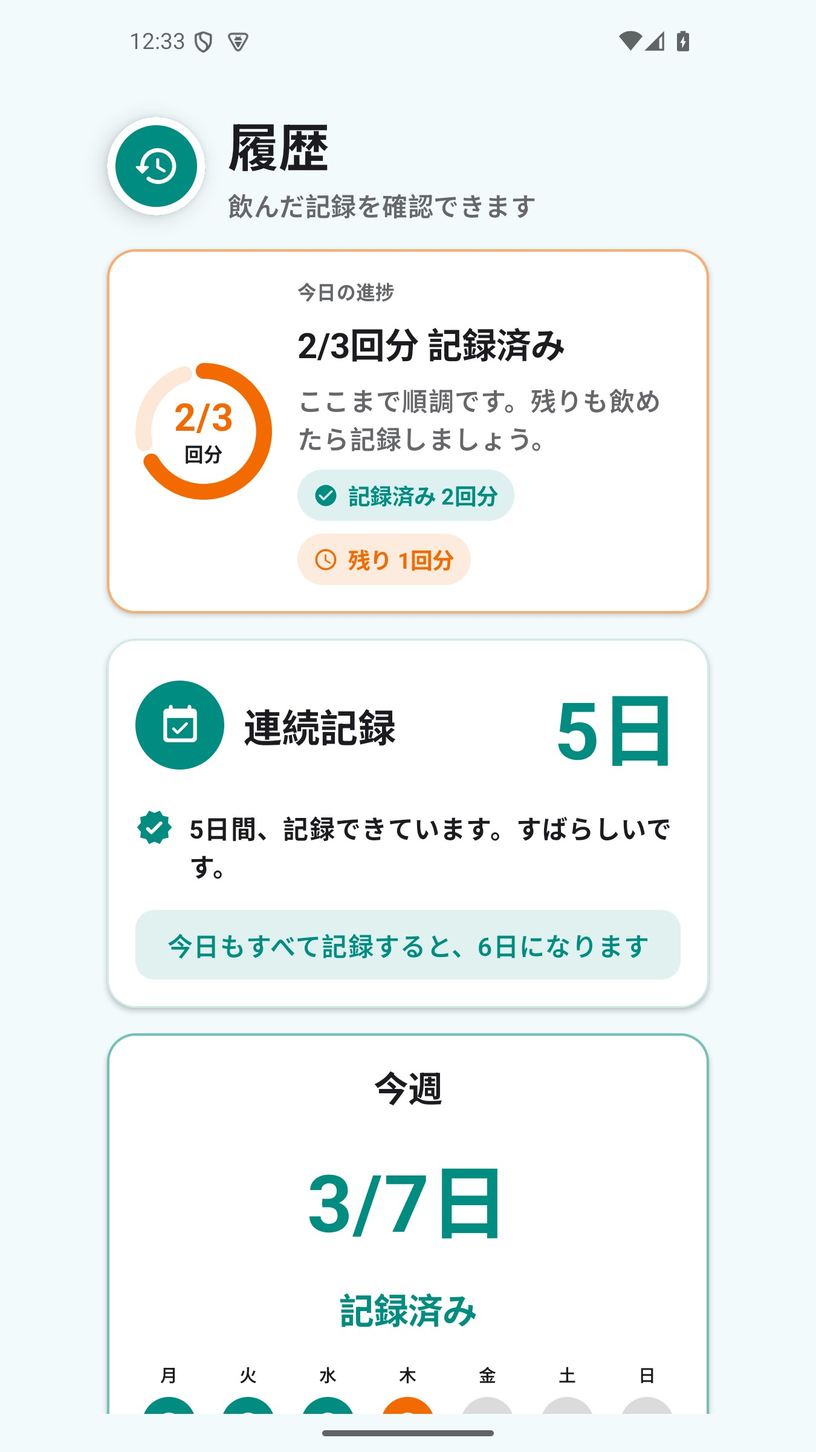
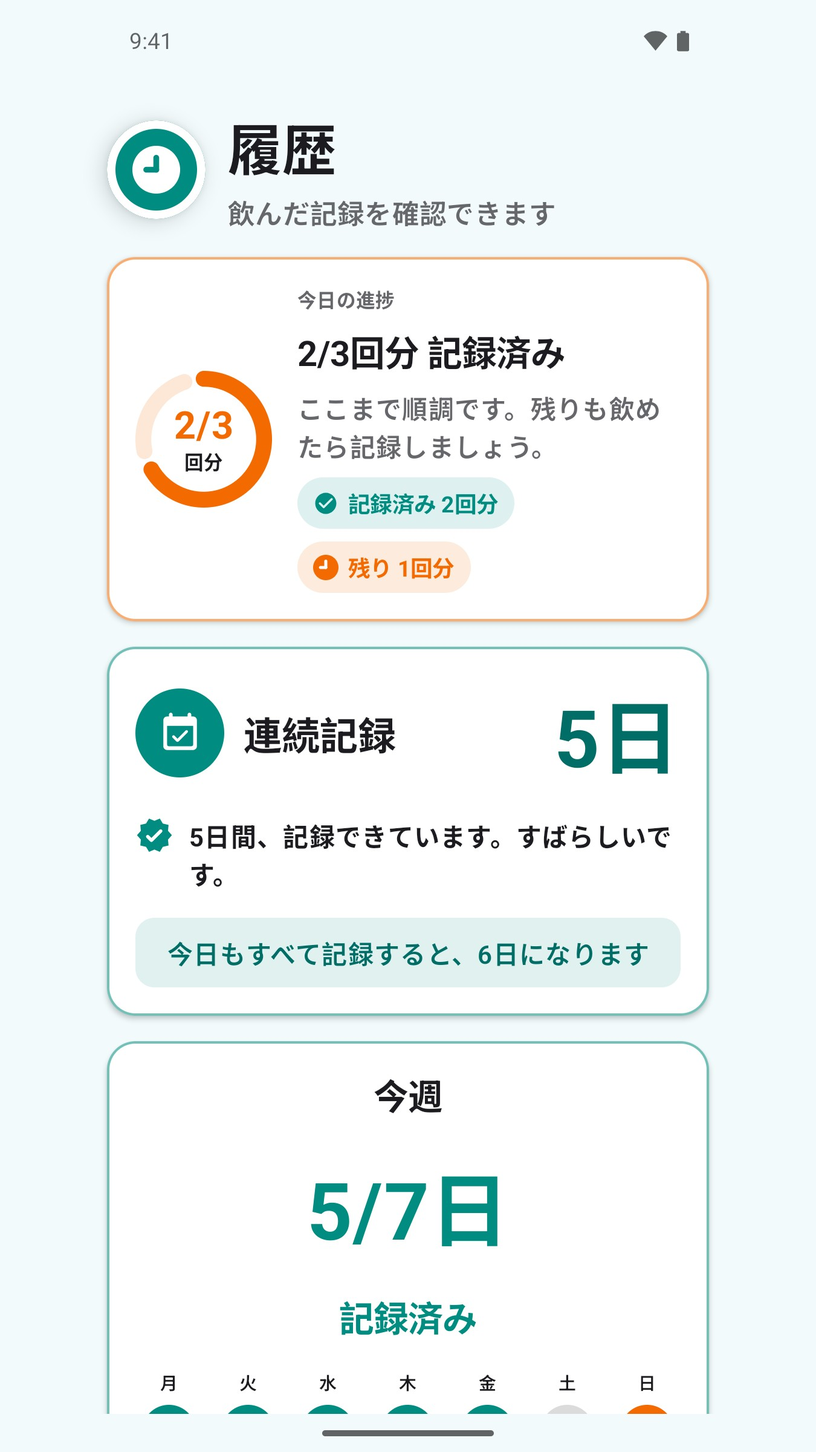
C124 rebaseline patient history UI to published iOS

diff --git a/android/app/src/main/java/com/afterlifearchive/medmanager/ui/PatientHistoryScreen.kt b/android/app/src/main/java/com/afterlifearchive/medmanager/ui/PatientHistoryScreen.kt
@@ -190,7 +190,7 @@ private fun PatientHistoryStreakCard(streak: PatientHistoryStreak) {
     Card(
         modifier = Modifier.fillMaxWidth().testTag("patient-history-streak-card"),
         shape = RoundedCornerShape(18.dp),
-        border = BorderStroke(1.dp, PatientTeal.copy(alpha = 0.18f)),
+        border = BorderStroke(1.5.dp, PatientTeal.copy(alpha = 0.55f)),
         colors = CardDefaults.cardColors(containerColor = MaterialTheme.colorScheme.surface),
         elevation = CardDefaults.cardElevation(defaultElevation = 2.dp),
     ) {
@@ -203,7 +203,7 @@ private fun PatientHistoryStreakCard(streak: PatientHistoryStreak) {
                 Text(
                     value,
                     fontSize = if (streak.currentStreakDays == 0) 28.sp else 50.sp,
-                    color = PatientTeal,
+                    color = MedicationTheme.colors.primaryTealText,
                     fontWeight = FontWeight.Bold,
                     maxLines = 1,
                     modifier = Modifier.semantics { contentDescription = valueAccessibility },
@@ -217,7 +217,7 @@ private fun PatientHistoryStreakCard(streak: PatientHistoryStreak) {
                 next,
                 style = MaterialTheme.typography.bodyLarge,
                 fontWeight = FontWeight.SemiBold,
-                color = PatientTeal,
+                color = MedicationTheme.colors.primaryTealText,
                 textAlign = TextAlign.Center,
                 modifier = Modifier.fillMaxWidth().background(PatientTeal.copy(alpha = 0.12f), RoundedCornerShape(12.dp)).padding(horizontal = 14.dp, vertical = 10.dp),
             )
@@ -291,11 +291,12 @@ private enum class PatientSimpleHistoryStatus { TAKEN, PENDING, MISSED, NONE }
 @Composable
 private fun PatientHistoryHeader() {
     Row(Modifier.fillMaxWidth(), verticalAlignment = Alignment.CenterVertically, horizontalArrangement = Arrangement.spacedBy(14.dp)) {
-        PatientHeaderIcon(Icons.Rounded.AccessTime)
-        Column(verticalArrangement = Arrangement.spacedBy(3.dp)) {
-            Text(stringResource(R.string.patient_history_title), modifier = Modifier.semantics { heading() }, style = MaterialTheme.typography.headlineLarge, fontWeight = FontWeight.Bold)
-            Text(stringResource(R.string.patient_history_subtitle), style = MaterialTheme.typography.titleMedium, color = MaterialTheme.colorScheme.onSurfaceVariant, fontWeight = FontWeight.SemiBold)
-        }
+        PatientHeaderFilledClockIcon()
+        PatientHeaderText(
+            title = stringResource(R.string.patient_history_title),
+            subtitle = stringResource(R.string.patient_history_subtitle),
+            titleModifier = Modifier.semantics { heading() },
+        )
     }
 }
 
@@ -352,7 +353,11 @@ private fun PatientTodayProgressCard(day: HistoryDay?) {
                 if (total > 0) {
                     FlowRow(horizontalArrangement = Arrangement.spacedBy(8.dp), verticalArrangement = Arrangement.spacedBy(8.dp)) {
                         HistoryStatusPill(stringResource(R.string.patient_history_today_taken, taken), PatientTeal, Icons.Rounded.CheckCircle)
-                        if (pending > 0) HistoryStatusPill(stringResource(R.string.patient_history_today_remaining, pending), Color(0xFFF36A00), Icons.Rounded.AccessTime)
+                        if (pending > 0) HistoryStatusPill(
+                            stringResource(R.string.patient_history_today_remaining, pending),
+                            Color(0xFFF36A00),
+                            filledClock = true,
+                        )
                         if (missed > 0) HistoryStatusPill(stringResource(R.string.patient_history_today_missed, missed), MaterialTheme.colorScheme.error, Icons.Rounded.Warning)
                     }
                 }
@@ -603,13 +608,26 @@ private fun patientRecentDoseStatusColor(dose: HistoryScheduledDose): Color = wh
 }
 
 @Composable
-private fun HistoryStatusPill(text: String, color: Color, icon: ImageVector? = null) {
+private fun HistoryStatusPill(
+    text: String,
+    color: Color,
+    icon: ImageVector? = null,
+    filledClock: Boolean = false,
+) {
     Row(
         modifier = Modifier.background(color.copy(alpha = 0.13f), RoundedCornerShape(50)).padding(horizontal = 10.dp, vertical = 6.dp),
         horizontalArrangement = Arrangement.spacedBy(6.dp),
         verticalAlignment = Alignment.CenterVertically,
     ) {
-        icon?.let { Icon(it, contentDescription = null, tint = color, modifier = Modifier.size(16.dp)) }
+        if (filledClock) {
+            FilledClockGlyph(
+                fillColor = color,
+                handColor = Color.White,
+                modifier = Modifier.size(16.dp),
+            )
+        } else {
+            icon?.let { Icon(it, contentDescription = null, tint = color, modifier = Modifier.size(16.dp)) }
+        }
         Text(text, color = color, fontWeight = FontWeight.Bold, style = MaterialTheme.typography.titleSmall)
     }
 }

diff --git a/android/app/src/main/java/com/afterlifearchive/medmanager/ui/PatientUiComponents.kt b/android/app/src/main/java/com/afterlifearchive/medmanager/ui/PatientUiComponents.kt
@@ -10,6 +10,7 @@ import androidx.compose.foundation.layout.padding
 import androidx.compose.foundation.layout.size
 import androidx.compose.foundation.shape.CircleShape
 import androidx.compose.foundation.shape.RoundedCornerShape
+import androidx.compose.foundation.Canvas
 import androidx.compose.material3.Card
 import androidx.compose.material3.CardDefaults
 import androidx.compose.material3.CircularProgressIndicator
@@ -21,6 +22,7 @@ import androidx.compose.runtime.Composable
 import androidx.compose.ui.Alignment
 import androidx.compose.ui.Modifier
 import androidx.compose.ui.graphics.Color
+import androidx.compose.ui.graphics.StrokeCap
 import androidx.compose.ui.graphics.vector.ImageVector
 import androidx.compose.ui.draw.shadow
 import androidx.compose.ui.res.stringResource
@@ -60,6 +62,77 @@ internal fun PatientHeaderPillsIcon() {
         contentAlignment = Alignment.Center,
     ) {
         MedicationPillsGlyph(Color.White, Modifier.size(34.dp))
+    }
+}
+
+@Composable
+internal fun PatientHeaderFilledClockIcon() {
+    Box(
+        modifier = Modifier
+            .size(62.dp)
+            .shadow(8.dp, CircleShape)
+            .background(PatientTeal, CircleShape)
+            .border(5.dp, MaterialTheme.colorScheme.surface, CircleShape),
+        contentAlignment = Alignment.Center,
+    ) {
+        FilledClockGlyph(
+            fillColor = Color.White,
+            handColor = PatientTeal,
+            modifier = Modifier.size(30.dp),
+        )
+    }
+}
+
+@Composable
+internal fun FilledClockGlyph(
+    fillColor: Color,
+    handColor: Color,
+    modifier: Modifier = Modifier,
+) {
+    Canvas(modifier) {
+        val radius = size.minDimension / 2f
+        val stroke = size.minDimension * 0.12f
+        drawCircle(color = fillColor, radius = radius)
+        drawLine(
+            color = handColor,
+            start = center,
+            end = center.copy(y = center.y - radius * 0.50f),
+            strokeWidth = stroke,
+            cap = StrokeCap.Round,
+        )
+        drawLine(
+            color = handColor,
+            start = center,
+            end = center.copy(x = center.x - radius * 0.42f),
+            strokeWidth = stroke,
+            cap = StrokeCap.Round,
+        )
+    }
+}
+
+@Composable
+internal fun PatientHeaderText(
+    title: String,
+    subtitle: String,
+    titleModifier: Modifier = Modifier,
+) {
+    Column(verticalArrangement = Arrangement.spacedBy(4.dp)) {
+        Text(
+            text = title,
+            fontSize = 34.sp,
+            lineHeight = 41.sp,
+            fontWeight = FontWeight.Bold,
+            maxLines = 1,
+            modifier = titleModifier,
+        )
+        Text(
+            text = subtitle,
+            fontSize = 17.sp,
+            lineHeight = 22.sp,
+            fontWeight = FontWeight.SemiBold,
+            color = MaterialTheme.colorScheme.onSurfaceVariant,
+            maxLines = 2,
+        )
     }
 }
 

diff --git a/android/app/src/androidTest/java/com/afterlifearchive/medmanager/ui/PatientHistoryContentTest.kt b/android/app/src/androidTest/java/com/afterlifearchive/medmanager/ui/PatientHistoryContentTest.kt
@@ -178,6 +178,30 @@ class PatientHistoryContentTest {
     }
 
     @Test
+    fun publishedIosV105PatientHistoryFixtureRendersInProductionCompose() {
+        val now = LocalDate.parse("2026-07-19")
+        val activity = showHistory(
+            days = listOf(
+                HistoryDay("2026-07-13", HistoryStatus.TAKEN, HistoryStatus.NONE, HistoryStatus.NONE, HistoryStatus.NONE, 0),
+                HistoryDay("2026-07-14", HistoryStatus.TAKEN, HistoryStatus.NONE, HistoryStatus.NONE, HistoryStatus.NONE, 0),
+                HistoryDay("2026-07-15", HistoryStatus.TAKEN, HistoryStatus.NONE, HistoryStatus.NONE, HistoryStatus.NONE, 0),
+                HistoryDay("2026-07-16", HistoryStatus.TAKEN, HistoryStatus.NONE, HistoryStatus.NONE, HistoryStatus.NONE, 0),
+                HistoryDay("2026-07-17", HistoryStatus.TAKEN, HistoryStatus.NONE, HistoryStatus.NONE, HistoryStatus.NONE, 0),
+                HistoryDay(now.toString(), HistoryStatus.TAKEN, HistoryStatus.TAKEN, HistoryStatus.PENDING, HistoryStatus.NONE, 0),
+            ),
+            streak = PatientHistoryStreak(5, false, HistoryStreakTodayStatus.IN_PROGRESS),
+            now = now,
+        )
+
+        composeRule.onNodeWithText("2/3回分 記録済み").assertIsDisplayed()
+        composeRule.onNodeWithText("記録済み 2回分").assertIsDisplayed()
+        composeRule.onNodeWithText("残り 1回分").assertIsDisplayed()
+        composeRule.onNodeWithText("5日").assertIsDisplayed()
+        composeRule.onNodeWithText("5/7日").assertIsDisplayed()
+        captureDevice(activity, "android-ui-104-published-v105-light.png")
+    }
+
+    @Test
     fun currentIosAchievementPreviewRemainsReadableInDarkMaximumText() {
         val activity = showHistory(
             days = listOf(

diff --git a/android/app/src/main/java/com/afterlifearchive/medmanager/ui/PatientSettingsScreen.kt b/android/app/src/main/java/com/afterlifearchive/medmanager/ui/PatientSettingsScreen.kt
@@ -168,10 +168,10 @@ internal fun SettingsContent(
 private fun PatientSettingsHeader() {
     Row(Modifier.fillMaxWidth(), verticalAlignment = Alignment.CenterVertically, horizontalArrangement = Arrangement.spacedBy(14.dp)) {
         PatientHeaderIcon(Icons.Rounded.Settings)
-        Column(verticalArrangement = Arrangement.spacedBy(3.dp)) {
-            Text(stringResource(R.string.patient_settings_title), style = MaterialTheme.typography.headlineLarge, fontWeight = FontWeight.Bold)
-            Text(stringResource(R.string.patient_settings_subtitle), style = MaterialTheme.typography.titleMedium, color = MaterialTheme.colorScheme.onSurfaceVariant, fontWeight = FontWeight.SemiBold)
-        }
+        PatientHeaderText(
+            title = stringResource(R.string.patient_settings_title),
+            subtitle = stringResource(R.string.patient_settings_subtitle),
+        )
     }
 }
 

diff --git a/android/app/src/main/java/com/afterlifearchive/medmanager/ui/PatientTodayScreen.kt b/android/app/src/main/java/com/afterlifearchive/medmanager/ui/PatientTodayScreen.kt
@@ -558,10 +558,10 @@ private fun PatientInventoryWarningCard(medicationNames: List<String>) {
 private fun PatientTodayHeader(date: String) {
     Row(Modifier.fillMaxWidth(), verticalAlignment = Alignment.CenterVertically, horizontalArrangement = Arrangement.spacedBy(14.dp)) {
         PatientHeaderIcon(Icons.Rounded.CalendarMonth)
-        Column {
-            Text(stringResource(R.string.patient_today_title), style = MaterialTheme.typography.headlineLarge, fontWeight = FontWeight.Bold)
-            Text(date, color = MaterialTheme.colorScheme.onSurfaceVariant, style = MaterialTheme.typography.titleMedium, fontWeight = FontWeight.SemiBold)
-        }
+        PatientHeaderText(
+            title = stringResource(R.string.patient_today_title),
+            subtitle = date,
+        )
     }
 }
 

diff --git a/android/scripts/verify-main-merge-surface.py b/android/scripts/verify-main-merge-surface.py
@@ -13,8 +13,8 @@ from typing import Sequence
 
 
 # The long-lived Android branch is intentionally source/evidence complete. C123
-# reaches 1,254 reviewed paths; 1,400 retains bounded headroom for the remaining
-# six published-build screenshot pairs without weakening scope/blob policies.
+# reaches 1,254 reviewed paths; 1,400 retains bounded headroom for that six-pair
+# queue (five remain after C124) without weakening scope/blob policies.
 MAX_CHANGED_FILES = 1_400
 MAX_SINGLE_BLOB_BYTES = 2 * 1024 * 1024
 MAX_CHANGED_TREE_BYTES = 400 * 1024 * 1024

diff --git a/docs/android/android-port-master-plan.md b/docs/android/android-port-master-plan.md
@@ -161,7 +161,7 @@ This is a verification/repair phase, not a declaration that earlier code is auto
 5. Data safety and health-app declarations
 6. Signed internal/closed test, feedback repair and rollout plan
 
-### Current checkpoint — C123 (2026-08-17)
+### Current checkpoint — C124 (2026-08-17)
 
 - R0–C4 and the automated portion of X1 are implemented against published `main@432b34c`.
 - C62 reopened the initial C61 conclusion with a direct source audit and closed the expandable History, Today summary, medication form and inventory gaps. C63 then corrected the tutorial implementation after direct comparison with `PatientTutorialSampleView`, `CaregiverTutorialSampleView` and `GuidedTutorialOverlay`: Android now uses dedicated published sample screens for all 14 steps, exact fixed copy/data and the compact role-colored guide card. The current suite passes 202/202 JVM tests, Lint and 272/272 UI tests on API 26/33/35.
@@ -222,9 +222,10 @@ This is a verification/repair phase, not a declaration that earlier code is auto
 - C121 closes the API workflow runtime warning exposed by inspecting every exact C120 hosted job rather than treating green conclusions as sufficient. API CI's three jobs and API E2E all succeeded but each carried the same Node 20 deprecation warning for `checkout@v4`/`setup-node@v4`; Android CI had zero annotations. Official release/tag and `action.yml` inspection selects checkout v7.0.1, setup-node v7.0.0 and upload-artifact v7.0.1, pins their full commit SHAs and confirms all use `node24`. All three API workflows now grant only `contents: read`, never persist checkout credentials and expose exactly thirteen reviewed action occurrences. The API runtime contract grows from nineteen to twenty-five rejected action/permission/runtime drifts; Production retains twenty-nine rejected source-policy fixtures. RG-002/RG-010 require exact post-fix API CI/E2E runs with zero action-runtime annotations.
 - C122 corrects the UI-evidence baseline itself. Earlier C37-C56 captures predated published Build 51 even though later source audits used `main@432b34c`; an exact unmodified `PatientTodayV105DebugPreview` capture exposed three visible Patient Today drifts. Android now matches the published progress connector and status glyphs, hero hierarchy/spacing, `予定 HH:mm`, actual-time `H:mm`, exact medicines and effective disabled-action opacity. The exact iOS/Android raw and normalized pair, side-by-side and overlay are retained under `evidence/c122-20260817`; Play screenshot 02 is regenerated from that Android evidence. Native system chrome and SF Symbols/Material icon outline differences are accepted platform conventions. The remaining seven store surfaces are not promoted by this slice and must receive the same published-build recapture audit.
 - C123 applies that procedure to UI-001 Mode Select. A clean published iOS launch with session bootstrap and an explicit privacy-safe Analytics refusal is compared with production Android Compose on API 35. The shared 52/24/14/18/112/38-unit layout, role illustrations, copy, colors and responsive scroll behavior already match. The comparison exposes two real icon drifts: Android's bottle header replaces the published pills symbol and role badge symbols used role tint while SwiftUI leaves them primary/neutral. Android now uses the shared pills glyph and neutral badge icons; exact raw/normalized/side-by-side/overlay evidence is retained under `evidence/c123-20260817`, and Play screenshot 01 derives from it. Different system chrome, SF/Material symbol outlines and natural wrapping caused by the 390-point iPhone versus 411-dp Android viewport are accepted platform/adaptive behavior. The first hosted run also proves the former 1,250-file merge ceiling obsolete at 1,254 reviewed paths; it is raised only to 1,400 with an explicit overflow rejection while all exact scope/blob/byte/iOS-zero policies remain. Six store surfaces remain.
+- C124 rebaselines UI-104 Patient History from the unchanged Build 51 `PatientHistoryAchievementPreview` and production `HistoryContent`. It closes the outline-versus-filled header/pill clocks, weak streak border, light-versus-dark streak teal, stale `3/7日` fixture and shared 32/16-versus-34/17 Patient header drift. The production source remains authoritative where the simulator preview hand-writes only five weekdays and omits `回分`: Android keeps the real Monday-first seven-day range and `記録済み %d回分`. Exact raw/normalized/side-by-side/overlay evidence is retained under `evidence/c124-20260817`; Play screenshot 03 is regenerated, while C122 Today and Play screenshot 02 are recaptured after the shared header correction. The affected 57/57 and complete API-35 283/283 suites pass alongside 216/216 Debug JVM, 213/213 Release JVM, lint/build/release/Play gates. Five store surfaces remain.
 - The repeatable privacy-first Firebase procedure is `firebase-analytics.md`; DebugView/Realtime evidence is `evidence/h07-20260817/README.md`, and delayed processed Events evidence is `evidence/c80-20260817/README.md`. Explore remains pending.
 - The physical release procedure is `physical-device-matrix.md`; its row-level evidence still requires old-supported, current-reference and non-Google OEM targets plus the exact signed Play Internal artifact.
-- C65-C123 cover one non-Google OEM/API 35 Debug target including a fresh durable 280/280 rerun, a current 840-test API 26/33/35 emulator regression, fail-fast physical runner readiness, verified Supabase CA/hostname TLS boundaries, explicit Play Organization-account ownership, Play policy/review-access requirements and a reproducible source-bound Japanese listing carried through a generated signed-release ledger into a retained/reverified handoff plus exact Play Bundle, published-Internal, generated app-signing metadata, downloaded base-APK byte/signature and C118-to-installed-package identity receipt contracts, immutable least-privilege Node 24 hosted Android and API workflow contracts, privileged-client-key rejection, synthetic end-to-end upload-keystore/signed-AAB verification, machine-readable exact-artifact evidence, checksum handoff and AAB-derived universal/device-split install-surface verification, including a cleaned-up physical A302SH split install, strict production/Play-installed App Links, committed main-merge-surface and read-only production control-plane gates, strictly locked Release SDK policy, fail-closed merged Release-manifest policy and validated AAB content path, local reminder lifecycle, safe browser/link-code I/O, IME/offline/role isolation, mutation hardening, local server-idempotency, isolated legacy-upgrade/read-only deployment-audit contracts, a fail-closed manual production-release path, a zero-High/Critical locked-dependency gate, aligned Node 22 API runtime and a machine-verified residual ledger, live privacy-first Analytics through processed Events, both privacy-safe Android FCM envelopes, non-retaining token acquisition/cleanup, the authenticated production API boundary and automated navigation/tutorial accessibility semantics, plus fresh published-build Mode Select and Patient Today visual rebaselines. V1 remains open for the ten exact RG gates in `release-gates.json`; none is waived by the ledger, synthetic API/APK fixtures, CI contract, unexecuted workflow or this one-device Debug pass.
+- C65-C124 cover one non-Google OEM/API 35 Debug target including a fresh durable 280/280 rerun, a current 840-test API 26/33/35 emulator regression, fail-fast physical runner readiness, verified Supabase CA/hostname TLS boundaries, explicit Play Organization-account ownership, Play policy/review-access requirements and a reproducible source-bound Japanese listing carried through a generated signed-release ledger into a retained/reverified handoff plus exact Play Bundle, published-Internal, generated app-signing metadata, downloaded base-APK byte/signature and C118-to-installed-package identity receipt contracts, immutable least-privilege Node 24 hosted Android and API workflow contracts, privileged-client-key rejection, synthetic end-to-end upload-keystore/signed-AAB verification, machine-readable exact-artifact evidence, checksum handoff and AAB-derived universal/device-split install-surface verification, including a cleaned-up physical A302SH split install, strict production/Play-installed App Links, committed main-merge-surface and read-only production control-plane gates, strictly locked Release SDK policy, fail-closed merged Release-manifest policy and validated AAB content path, local reminder lifecycle, safe browser/link-code I/O, IME/offline/role isolation, mutation hardening, local server-idempotency, isolated legacy-upgrade/read-only deployment-audit contracts, a fail-closed manual production-release path, a zero-High/Critical locked-dependency gate, aligned Node 22 API runtime and a machine-verified residual ledger, live privacy-first Analytics through processed Events, both privacy-safe Android FCM envelopes, non-retaining token acquisition/cleanup, the authenticated production API boundary and automated navigation/tutorial accessibility semantics, plus fresh published-build Mode Select, Patient Today and Patient History visual rebaselines. V1 remains open for the ten exact RG gates in `release-gates.json`; none is waived by the ledger, synthetic API/APK fixtures, CI contract, unexecuted workflow or this one-device Debug pass.
 
 ## 7. Automated quality gates
 

diff --git a/docs/android/execution-backlog.md b/docs/android/execution-backlog.md
@@ -222,9 +222,10 @@ Functional/JVM/Compose/instrumentation gates pass, including production-componen
 - [x] C121 Remove the hosted API Node 20 action-runtime warnings found after C120: verify official checkout v7.0.1, setup-node v7.0.0 and upload-artifact v7.0.1 release/tag SHAs plus `node24` metadata; pin all thirteen API CI/E2E/Production action uses by full SHA, set `contents: read`, disable checkout credential persistence, and expand the Node runtime contract to reject twenty-five mutable/old/extra action, count, permission, credential and runtime drifts. Require exact hosted API CI/E2E conclusions and zero action-runtime annotations in RG-002/RG-010.
 - [x] C122 Re-establish UI evidence from the unmodified published iOS 1.0.6 Build 51 runtime instead of pre-release captures: recapture the exact Patient Today preview, match Android progress/hero/time/medicine/disabled-action presentation, retain raw/normalized/side-by-side/overlay evidence, add an exact fixture regression and regenerate Play screenshot 02. Keep the other seven store surfaces open for the same published-build recapture audit.
 - [x] C123 Rebaseline UI-001 Mode Select from a clean unmodified published iOS runtime and production API-35 Compose: verify the shared layout/type/illustrations/copy, replace Android's bottle header with the published pills glyph, make badge symbols neutral like SwiftUI, retain raw/normalized/side-by-side/overlay evidence, add the exact fixture regression and regenerate Play screenshot 01. Keep the remaining six store surfaces open.
+- [x] C124 Rebaseline UI-104 Patient History from the unchanged published iOS runtime and production Compose: align filled clocks, shared 34/17 Patient header, streak accent/dark-teal hierarchy and exact `5/7日` fixture; retain the production seven-day/`回分` contracts over preview-only shortcuts; refresh C122 Today after the shared header change; retain exact comparison evidence and regenerate Play screenshots 02–03. Keep the remaining five store surfaces open.
 - [x] C34 Accept strict caregiver `DOSE_MISSED` payloads alongside `DOSE_TAKEN` and verify identical exact-date/slot History routing.
 - [x] C35 Rerun the full API/JVM/lint/build/API-35 matrix and close all C31 `RECHECK_REQUIRED` rows.
-- [ ] V01 Complete the assisted spoken TalkBack traversal, real destructive/mutation-interruption paths, old-supported physical target, Google/reference target, Analytics Explore, Firebase FCM and exact signed-Play artifact rows. C65-C123 cover authenticated appearance, core lifecycle, permission, local reminder lifecycle, safe I/O/IME/offline/role isolation, mutation hardening, isolated legacy-upgrade/read-only deployment-audit and manual fail-closed production-release/control-plane contracts, Play policy/review-access, a reproducible source-bound Japanese listing with Mode Select and Patient Today freshly rebaselined to the published build, complete disposable-signer generator-to-handoff integration, retained upload-time revalidation, exact Play Bundle/Published-Internal/generated-signing/downloaded-base-APK/installed-package receipt contracts and least-privilege immutable Node 24 Android/API workflow runtimes, a zero-High/Critical dependency audit, aligned Node 22/Prisma/Firebase runtime, verified Supabase CA/hostname TLS boundaries and an explicit Play Organization-account prerequisite, plus a machine-verified residual ledger, fail-fast physical runner readiness, a fresh durable A302SH 280/280 rerun, physical Analytics through processed Events, both Android FCM envelopes, token acquisition/cleanup, the authenticated production registration failure boundary, automated navigation/tutorial accessibility semantics, a fresh API 26/33/35 emulator matrix, aligned hosted CI, privileged-client-key rejection, synthetic signed-AAB/upload-keystore/APK verification, machine-readable exact-artifact evidence, atomic checksum handoff, AAB-derived universal/device-split install-surface verification, strict production/installed App Links contracts and the committed main-merge surface, strictly locked Release SDK policy and validated APK/AAB manifest/content policies. They do not close spoken real-finger operation, creation/protection of the production GitHub environment, server-side SSL enforcement, verified Play organization ownership/legal-name publication, authorized production migration/deployment, final reusable review-credential verification, real interrupted-write recovery, release-owner-signed/uploaded/published/generated/downloaded Play bytes or execution of their installed receipt, live URL/Play listing preview, current vendor-disclosure/Console review, App Links/FCM production verification until the Android API contract is deployed, six Moderate Firebase Storage/uuid transitive findings, Play closed-test crash/ANR monitoring, cross-device physical acceptance, or the remaining six published-build UI recaptures.
+- [ ] V01 Complete the assisted spoken TalkBack traversal, real destructive/mutation-interruption paths, old-supported physical target, Google/reference target, Analytics Explore, Firebase FCM and exact signed-Play artifact rows. C65-C124 cover authenticated appearance, core lifecycle, permission, local reminder lifecycle, safe I/O/IME/offline/role isolation, mutation hardening, isolated legacy-upgrade/read-only deployment-audit and manual fail-closed production-release/control-plane contracts, Play policy/review-access, a reproducible source-bound Japanese listing with Mode Select, Patient Today and Patient History freshly rebaselined to the published build, complete disposable-signer generator-to-handoff integration, retained upload-time revalidation, exact Play Bundle/Published-Internal/generated-signing/downloaded-base-APK/installed-package receipt contracts and least-privilege immutable Node 24 Android/API workflow runtimes, a zero-High/Critical dependency audit, aligned Node 22/Prisma/Firebase runtime, verified Supabase CA/hostname TLS boundaries and an explicit Play Organization-account prerequisite, plus a machine-verified residual ledger, fail-fast physical runner readiness, a fresh durable A302SH 280/280 rerun, physical Analytics through processed Events, both Android FCM envelopes, token acquisition/cleanup, the authenticated production registration failure boundary, automated navigation/tutorial accessibility semantics, a fresh API 26/33/35 emulator matrix, aligned hosted CI, privileged-client-key rejection, synthetic signed-AAB/upload-keystore/APK verification, machine-readable exact-artifact evidence, atomic checksum handoff, AAB-derived universal/device-split install-surface verification, strict production/installed App Links contracts and the committed main-merge surface, strictly locked Release SDK policy and validated APK/AAB manifest/content policies. They do not close spoken real-finger operation, creation/protection of the production GitHub environment, server-side SSL enforcement, verified Play organization ownership/legal-name publication, authorized production migration/deployment, final reusable review-credential verification, real interrupted-write recovery, release-owner-signed/uploaded/published/generated/downloaded Play bytes or execution of their installed receipt, live URL/Play listing preview, current vendor-disclosure/Console review, App Links/FCM production verification until the Android API contract is deployed, six Moderate Firebase Storage/uuid transitive findings, Play closed-test crash/ANR monitoring, cross-device physical acceptance, or the remaining five published-build UI recaptures.
 
 ### C99 canonical residual release gates
 

diff --git a/docs/android/evidence/c124-20260817/README.md b/docs/android/evidence/c124-20260817/README.md
@@ -1,0 +1,69 @@
+# C124 published iOS 1.0.6 Patient History visual rebaseline
+
+**Date:** 2026-08-17
+
+**Product baseline:** published iOS 1.0.6 Build 51, `main@432b34c`
+
+## Finding
+
+The retained UI-104 image came from the older C37 runtime comparison. A clean launch of the unchanged published iOS Patient History preview exposed four production-visible Android drifts: the header and remaining-count pill used outline clocks instead of `clock.fill`, the streak card used a much weaker border, the streak value/action used the lighter teal instead of `primaryTealText`, and the deterministic Android fixture rendered `3/7日` while the published reference headline is `5/7日`. The shared Patient header also still inherited Material's 32/16 typography instead of SwiftUI's 34/17 `largeTitle`/`headline` metrics.
+
+## Capture contract
+
+- iOS: the unchanged Build 51 simulator app produced under C122, launched with `-PatientHistoryAchievementPreview` on iPhone 17e / iOS 26.5. The raw capture is 1170 x 2532.
+- Android: API 35 AVD, 1080 x 2400 at 420 dpi, production `HistoryContent` inside the production theme. System UI demo mode fixes 9:41 and removes notification icons.
+- Both use Japanese, light appearance, two of three scheduled doses recorded, a five-day streak and a `5/7日` weekly headline.
+- Fixtures are deterministic and synthetic. No API, account, token, patient identifier, medication record or Analytics event is used.
+
+## Evidence
+
+| Artifact | File |
+|---|---|
+| Raw iOS | [`ios-ui-104-published-v105-light.png`](ios-ui-104-published-v105-light.png) |
+| Raw Android | [`android-ui-104-published-v105-light.png`](android-ui-104-published-v105-light.png) |
+| Normalized iOS | [`ios-ui-104-published-v105-light-normalized.png`](ios-ui-104-published-v105-light-normalized.png) |
+| Normalized Android | [`android-ui-104-published-v105-light-normalized.png`](android-ui-104-published-v105-light-normalized.png) |
+| Side by side | [`ui-104-published-v105-side-by-side.png`](ui-104-published-v105-side-by-side.png) |
+| 50% overlay | [`ui-104-published-v105-overlay-50.png`](ui-104-published-v105-overlay-50.png) |
+
+Normalization resizes both complete device captures to 1080 x 2400 for diagnostic alignment. Raw files remain authoritative.
+
+## Drift closed
+
+- The History header now uses a filled clock with reversed hands, matching `clock.fill` rather than Material's outline-only clock.
+- The remaining-count pill uses the same filled-clock meaning at caption size.
+- The streak card now uses the published 1.5-unit, 55%-teal accent border and the darker accessible teal for its value and next-step copy.
+- The shared Patient header now owns the published 34/17 title/subtitle metrics. Today was recaptured under C122 and Settings inherits the same production component before its own queued visual audit.
+- The exact production fixture asserts `2/3回分 記録済み`, `記録済み 2回分`, `残り 1回分`, `5日` and `5/7日` before capture.
+- Play screenshots 02 and 03 are regenerated from the refreshed Today and Patient History production-Compose evidence.
+
+## Production source wins over debug-preview-only shortcuts
+
+The simulator preview hand-writes five weekday columns and shortens its taken pill to `記録済み 2`. The shipping `HistoryMonthView.patientSimpleHistory` renders the Monday-first seven-day range and formats the same pill through `caregiver.history.summary.taken` as `記録済み %d回分`. Android therefore preserves seven production days and `記録済み 2回分`; it does not copy preview-only shortcuts into the real UI. This follows the same production-source rule used by C122 for the debug route's missing selected-tab background.
+
+## Accepted platform and adaptive differences
+
+- SF Symbols and the Compose custom/Material equivalents retain native calendar/check details.
+- Status/navigation bars and font rasterization remain platform-native.
+- The iPhone viewport is 390 points wide while the Android reference is approximately 411 dp. Identical 16/18-unit margins and card content therefore wrap to fewer lines on Android and reveal more of the weekly card in the same full-device capture.
+
+## Verification
+
+- Exact published fixture instrumentation: 1/1 passed on API 35 and emitted the retained Android capture.
+- Affected Patient History, Today and Settings instrumentation: 57/57 passed on API 35 with zero failure or skip.
+- Complete API-35 connected UI suite: 283/283 passed in four retained shards (66 + 59 + 80 + 78), with zero failure, error or skip and automatic package cleanup.
[1 lines of base64/hex data omitted]
+- Hosted CI is checked on the final pushed commit before delivery.
+- Existing dark/200% and lifecycle fixtures remain part of UI-104; physical spoken TalkBack and Play-installed evidence remain external and C124 closes no RG gate.
+
+## SHA-256
+
+| File | SHA-256 |
+|---|---|
[7 lines of base64/hex data omitted]

diff --git a/docs/android/evidence/c122-20260817/README.md b/docs/android/evidence/c122-20260817/README.md
@@ -11,7 +11,7 @@ C61-C64 completed the source-level published-build audit, but the retained UI-10
 ## Capture contract
 
 - iOS: the unmodified `main@432b34c` source was built in a fresh DerivedData directory and launched with `-PatientTodayV105Preview` on iPhone 17e / iOS 26.5. The raw capture is 1170 x 2532.
-- Android: API 35 AVD, 1080 x 2400, production `PatientModePreview` shell and production `TodayContent` component tree.
+- Android: API 35 AVD, 1080 x 2400, production `PatientModePreview` shell and production `TodayContent` component tree. C124 recaptures the same fixture at a clean 9:41 after moving the shared Patient header to SwiftUI's exact 34/17 title/subtitle metrics.
 - Both sides use 2026-08-17 Tokyo time with the same 13:47 logical clock, four slot times, six scheduled doses, morning actual time and next bedtime action.
 - The data is deterministic and synthetic. No API, account, token, patient identifier, medication record or Analytics event was used.
 
@@ -37,6 +37,7 @@ Normalization resizes both complete device captures to 1080 x 2400 for diagnosti
 - The next-dose header now renders exact `予定 HH:mm` copy, current 58/30-unit clock hierarchy and the 64-unit primary action.
 - The unavailable primary action retains the effective iOS disabled teal opacity and no longer shows the obsolete Android-only recording-window guide.
 - `PatientModePreview` now uses the exact published fixture instead of the July pre-1.0.6 sample, and the Japanese Play Patient Today source is moved to this evidence.
+- C124 centralizes the published 34/17 Patient header type contract for Today, History and Settings; this evidence and Play screenshot 02 are regenerated so C122 does not retain the older 32/16 Material defaults.
 
 ## Accepted platform differences
 
@@ -58,9 +59,9 @@ Normalization resizes both complete device captures to 1080 x 2400 for diagnosti
 | File | SHA-256 |
 |---|---|
[13 lines of base64/hex data omitted]

diff --git a/docs/android/parity-requirements.md b/docs/android/parity-requirements.md
@@ -61,7 +61,7 @@ This file tracks product parity against published iOS 1.0.6 Build 51 at `main@43
 | PH-006 | Rebuild notification schedule on settings/lifecycle/recording | scheduling coordinator | IMPLEMENTED | Automated settings/foreground/recording replacement and Tokyo boundary coverage remain. C68 physically measures production-scheduler delivery on A302SH: background primary and foreground secondary each once at 36 s, forced-deep-idle delivery at 79 s, and cancellation with no notification through 96 s. Recording-triggered live-server rebuild and other required devices remain |
 | PH-007 | Revoke server session before local unlink | `/api/patient/session` | IMPLEMENTED | C48 pairs the current 18-unit/58-unit logout action and exact native confirmation copy, with a destructive Android action. Current iOS exposes no progress/failure and clears locally even if revoke fails; Android intentionally preserves the stricter server-first DELETE, disabled `ログアウト中…`, success-only local unlink/cancellation and failure retry contract. Real-session verification remains |
 | PH-008 | Legal/support links and mode change behavior | patient settings iOS UI | IMPLEMENTED | C21 matches the production 48-unit icon, 20/15-unit text and proper chevron navigation rows. C69 physically taps Privacy/Terms/Support from the live dedicated QA Patient Settings on A302SH, verifies the exact Chrome URL and Back restoration for each. Linked-state copy, destructive confirmation and return-to-mode-select semantics remain automated; other device/Play artifacts remain |
-| PH-009 | Server-defined patient recording streak | `GET /api/patient/history/streak`, `PatientHistoryStreakCard` | IMPLEMENTED | C32 adds patient-auth API-045, strict nonnegative/four-status DTO mapping, supplementary failure isolation and refresh with History freshness. The 18-unit teal-accent card follows today's progress and matches current iOS value/qualifier/milestone/next-step copy. C37 adds fresh current-runtime light and dark/maximum-text pairs and protects the exact five-day preview hierarchy; physical verification remains. |
+| PH-009 | Server-defined patient recording streak | `GET /api/patient/history/streak`, `PatientHistoryStreakCard` | IMPLEMENTED | C32 adds patient-auth API-045, strict nonnegative/four-status DTO mapping, supplementary failure isolation and refresh with History freshness. The 18-unit teal-accent card follows today's progress and matches current iOS value/qualifier/milestone/next-step copy. C124 supersedes C37's old default image with an exact published pair, closing filled clocks, shared 34/17 header, 1.5-unit accent, dark-teal value/action and `5/7日` fixture drift; existing dark/maximum-text evidence and physical verification remain. |
 
 ## Caregiver mode
 
